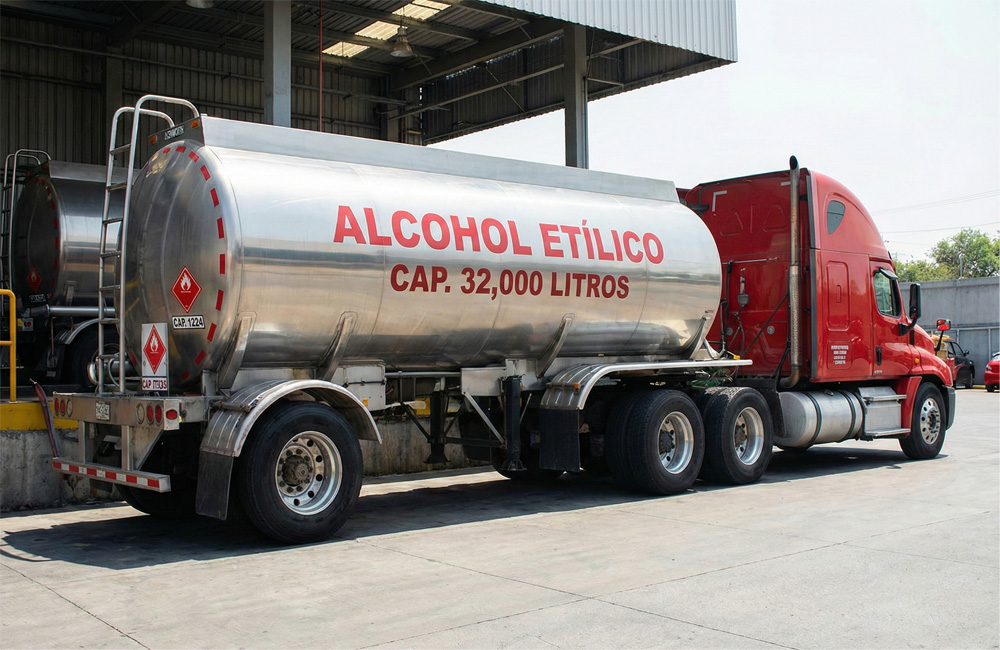
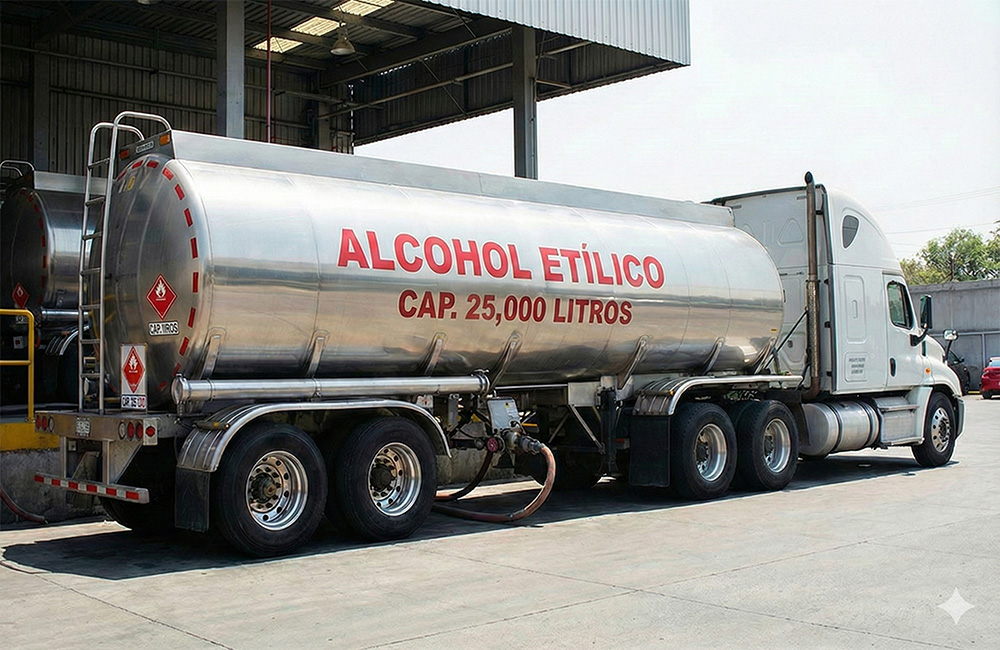
Cambios solicitados
• Espacio br en móvil en slider "Alcohol"
• Cambio de imagenes pipas cantidades.
• Cambios en textos.

diff --git a/index.html b/index.html
@@ -119,7 +119,7 @@
                                 <div class="slider-caption big">
                                     <div class="inner-layer">
                                         <div data-animation="fade-in-bottom" data-delay="0.5s"><span
-                                                class="text-outline-white">Alcohol Etílico 96° Neutro</span><br> Desde 32 mil a
+                                                class="text-outline-white">Alcohol Etílico 96° Neutro</span><br> Desde 25 mil a
                                             64 mil litros
                                         </div>
                                     </div>
@@ -127,7 +127,7 @@
                                 <div class="slider-caption small">
                                     <div class="inner-layer">
                                         <div data-animation="fade-in-bottom" data-delay="0.7s" data-duration="1s">Venta
-                                            a granel a partir de 32 mil litros, 44 mil litros hasta 64 mil litros
+                                            a granel a partir de 25 mil litros, 44 mil litros hasta 64 mil litros
                                             <br>Calidad neutra para procesos industriales de alta exigencia.
                                         </div>
                                     </div>
@@ -248,7 +248,7 @@
                                 class="sh-underline"><img class="sh-truck" src="assets/img/truck.svg"
                                     alt="truck"></span></h3>
                         <h2 class="text-anim" data-effect="fade-in-right" data-split="char" data-delay="0.3"
-                            data-duration="1">Venta granel de Alcohol Etílico 96° <br><span class="hl">Desde 32,000 a
+                            data-duration="1">Venta granel de Alcohol Etílico 96° <br><span class="hl">Desde 25,000 a
                                 64,000 litros</span></h2>
                         <p class="text-anim" data-effect="fade-in-bottom" data-ease="power4.out">Nuestro objetivo
                             principal es brindar un servicio de calidad y proveer la mercancía solicitada en excelente
@@ -278,7 +278,7 @@
                             estado de México</li>
                         <li><i class="fa-solid fa-check"></i>Contamos con nuestra propia empresa logística de transporte
                             especializado</li>
-                        <li><i class="fa-solid fa-check"></i>Surtimos en pipas a partir de 32 mil litros, 44 mil litros
+                        <li><i class="fa-solid fa-check"></i>Surtimos en pipas a partir de 25 mil litros, 44 mil litros
                             hasta 64 mil litros</li>
                     </ul>
                     <div class="btn-group wow fade-in-bottom" data-wow-delay="300ms">
@@ -330,7 +330,7 @@
                 <h3 class="sub-heading is-border border-anim">Nuestro Trasporte Especializado<span
                         class="sh-underline"><img class="sh-truck" src="assets/img/truck.svg" alt="truck"></span></h3>
                 <h2 class="text-anim" data-effect="fade-in-right" data-split="char" data-delay="0.3" data-duration="1">
-                    Envio nacional a granel <br><span class="hl">desde 32 mil, 44 mil y hasta 64 mil litros</span>
+                    Envio nacional a granel <br><span class="hl">desde 25 mil, 44 mil y hasta 64 mil litros</span>
                 </h2>
                 <p class="text-anim" data-effect="fade-in-bottom" data-ease="power4.out">Cobertura en todos los estados
                     de la República Mexicana.</p>
@@ -343,7 +343,7 @@
                         </div>
                         <div class="service-content">
                             <div class="service-icon"><img class="icon-pipa" src="assets/img/icon-pipa.svg"></img></div>
-                            <h3><a href="service-details.html">32 mil litros</a></h3>
+                            <h3><a href="service-details.html">25 mil litros</a></h3>
                             <p>La solución ideal para entregas ágiles y accesos urbanos restringidos. Perfecta para optimizar el inventario con flexibilidad y rapidez de respuesta.</p>
                         </div>
                     </div>
@@ -406,10 +406,10 @@
             <div class="row promo-item-wrapper gx-0">
                 <div class="col-lg-4">
                     <div class="promo-item">
-                        <i class="fal fa-hand-holding-usd"></i>
+                        <i class="fal fa-droplet"></i>
                         <div class="promo-content">
-                            <h3>Crédito disponible</h3>
-                            <p>Financiamiento ágil y flexible para optimizar el flujo de efectivo de tu empresa.</p>
+                            <h3>Calidad estándar neutra</h3>
+                            <p>Industria alimenticia, farmacéutica, cosmética, química, distribuidores, envasadoras y bebidas alcohólicas.</p>
                         </div>
                     </div>
                 </div>
@@ -417,17 +417,17 @@
                     <div class="promo-item">
                         <i class="fal fa-industry-windows"></i>
                         <div class="promo-content">
-                            <h3>Maquila propia</h3>
-                            <p>Control total de producción desde la melaza, garantizando abasto constante y precio competitivo.</p>
+                            <h3>Control total de producción</h3>
+                            <p>Control de producción desde la melaza, garantizando abasto constante y precio competitivo.</p>
                         </div>
                     </div>
                 </div>
                 <div class="col-lg-4">
                     <div class="promo-item">
-                        <i class="fal fa-droplet"></i>
+                        <i class="fal fa-box-check"></i>
                         <div class="promo-content">
-                            <h3>Calidad neutra</h3>
-                            <p>Alcohol puro e inoloro, certificado para exigencias farmacéuticas, alimenticias y cosméticas.</p>
+                            <h3>Certificaciones</h3>
+                            <p>Alcohol 96° puro e inoloro con certificados de calidad Kosher, COFEPRIS, USP, FEUM Pureza.</p>
                         </div>
                     </div>
                 </div>
@@ -607,7 +607,7 @@
                     <div class="col-lg-3 col-md-6">
                         <div class="footer-widget">
                             <a href="index.html" class="footer-logo"><img src="assets/img/logo.svg" alt="logo"></a>
-                            <p>Venta a granel de Alcohol Etílico 96° a partir de 32,000 mil litros con envio a todo
+                            <p>Venta a granel de Alcohol Etílico 96° a partir de 25,000 mil litros con envio a todo
                                 México.</p>
                         </div>
                     </div>

diff --git a/assets/css/main.css b/assets/css/main.css
@@ -620,6 +620,10 @@
     .main-header-info:after {
         transform: skewX(41.5deg);
     }
+
+    .slider-caption br {
+        display: block !important;
+    }
 }
 
 @media (max-width: 600px) {
